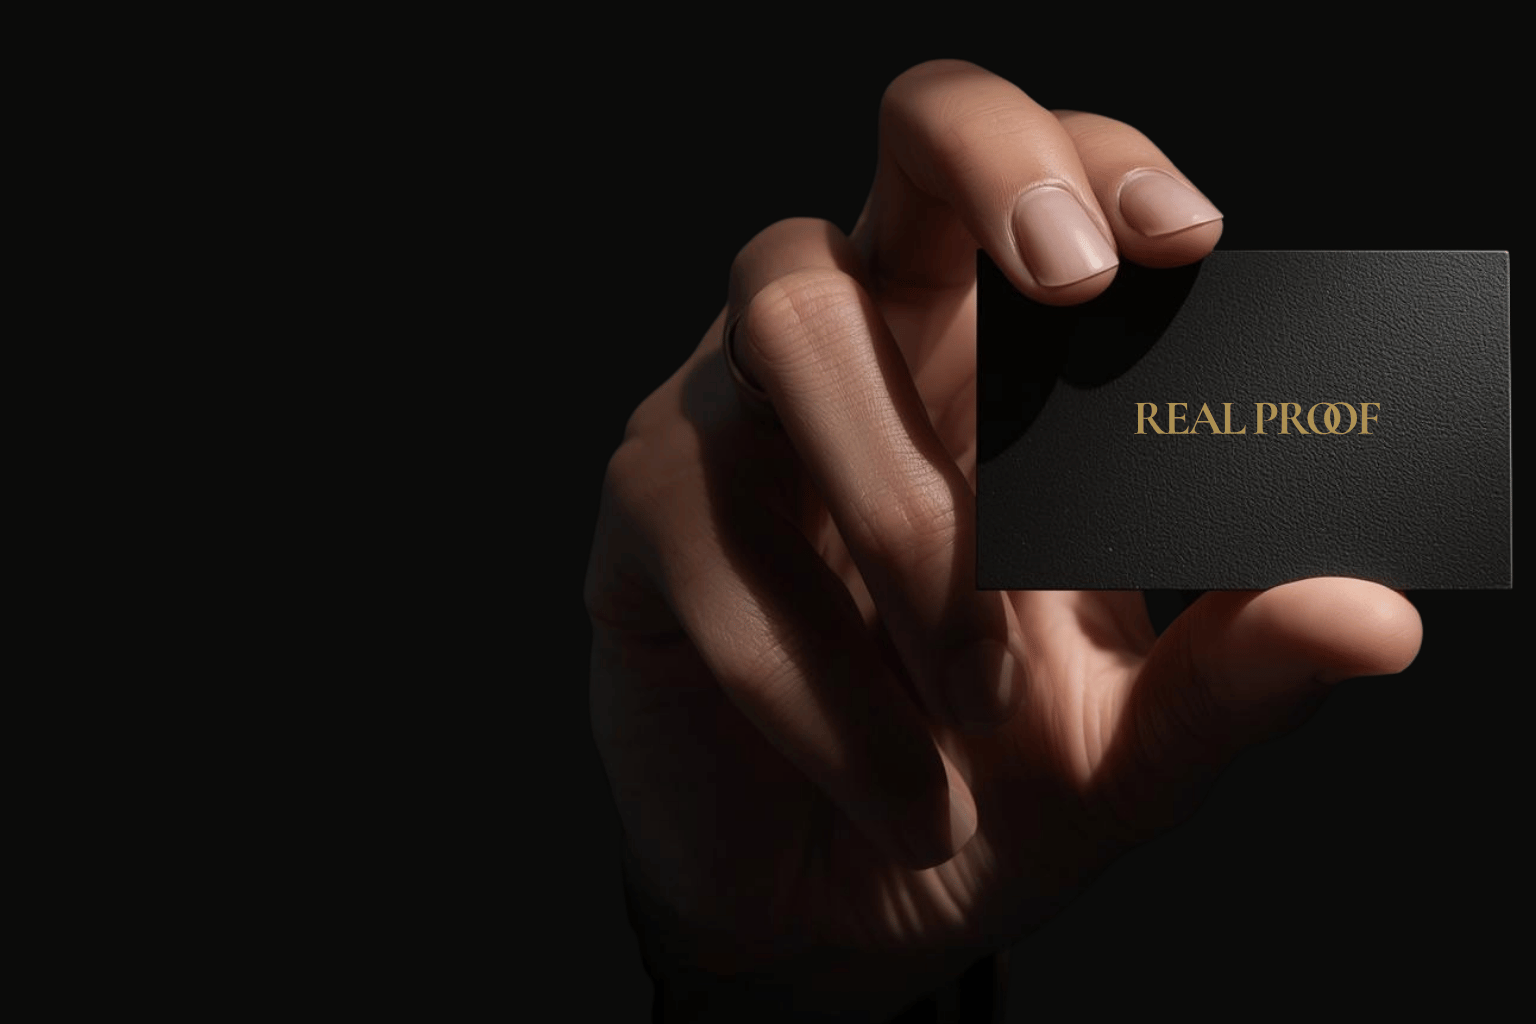
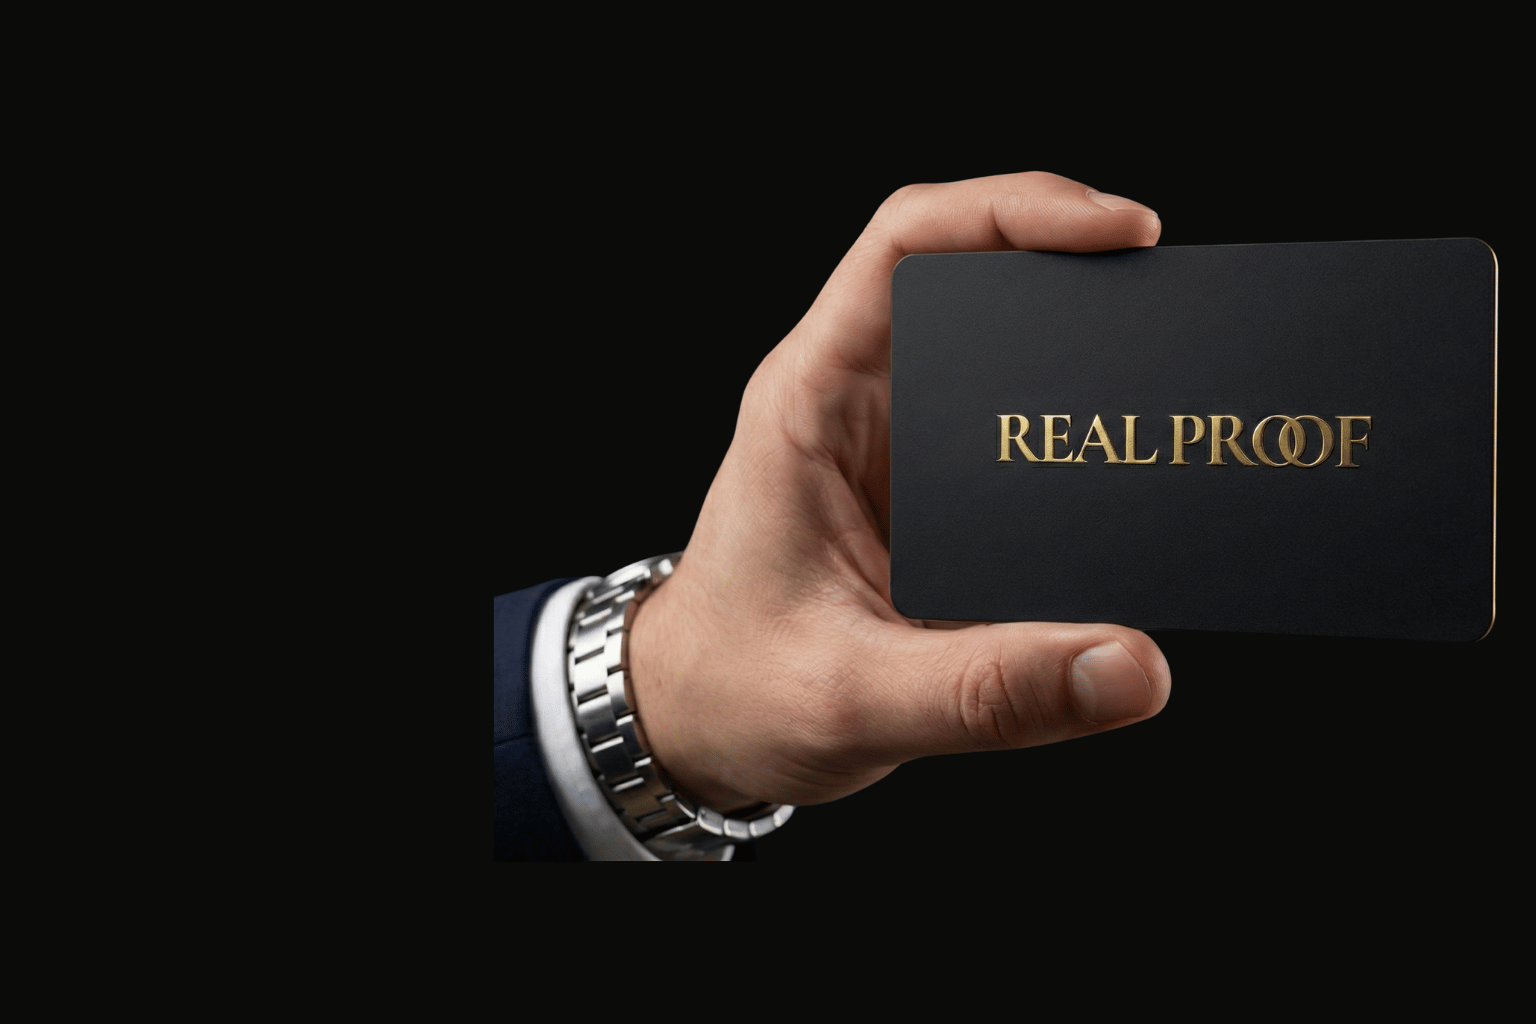
fix: 画像ファイル更新（hero_pc/sp差し替え + record/save追加）
- hero_pc.png: 354KB → 306KB（差し替え）
- hero_sp.png: 235KB → 152KB（差し替え）
- record.png: 256KB（新規追加 — How It Works Step 02）
- save.png: 275KB（新規追加 — How It Works Step 03）
- howItWorksSteps の mockup パスを更新

Changed region(s): [[0.3125, 0.0312, 1.0, 0.9062]]

diff --git a/src/app/page.tsx b/src/app/page.tsx
@@ -497,8 +497,8 @@ export default function Home() {
 // ─── Data ───
 const howItWorksSteps = [
   { num: '01', title: 'Tap', desc: 'セッションの後に\nカードをかざす', sub: '（またはQRを見せる）', icon: 'nfc', mockup: '/images/nfc_tap.png' },
-  { num: '02', title: 'Record', desc: 'クライアントが\n「何が良かったか」を選ぶ', sub: '', icon: 'check', mockup: null },
-  { num: '03', title: 'Save', desc: 'あなたの信頼として\n蓄積される', sub: '', icon: 'chart', mockup: null },
+  { num: '02', title: 'Record', desc: 'クライアントが\n「何が良かったか」を選ぶ', sub: '', icon: 'check', mockup: '/images/record.png' },
+  { num: '03', title: 'Save', desc: 'あなたの信頼として\n蓄積される', sub: '', icon: 'chart', mockup: '/images/save.png' },
 ];
 
 const pillars = [
